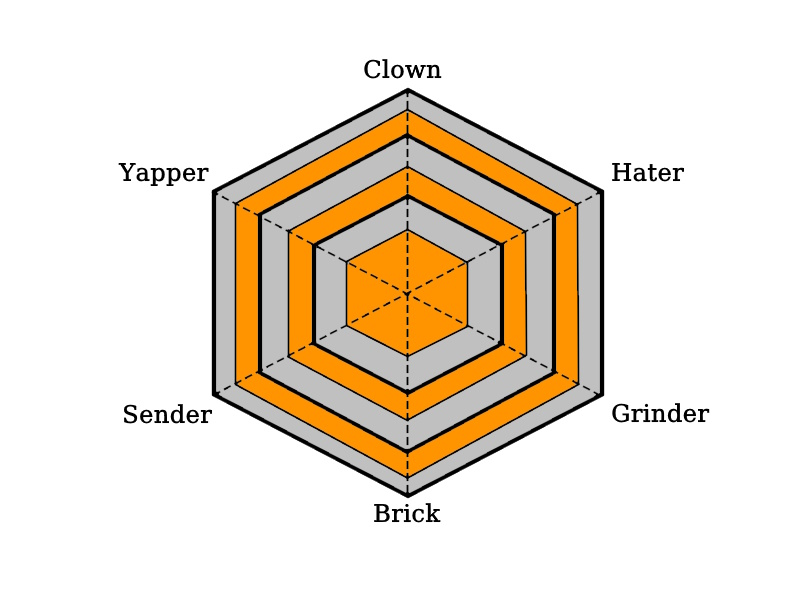
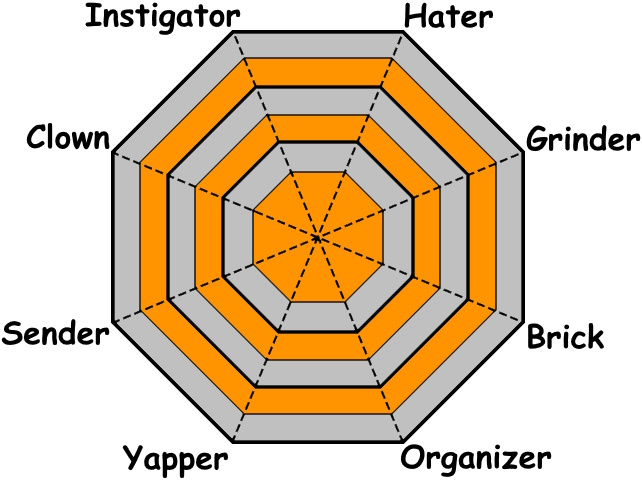
post mortem on sofia's commit - updated figure and calculations for new types

diff --git a/personality_test.py b/personality_test.py
@@ -2,9 +2,6 @@ import numpy as np
 import plotly.graph_objects as go
 from PIL import Image
 
-img_width=800
-img_height=600
-
 # Lambda functions 
 axes_to_polar = lambda points: np.array([np.linalg.norm(points[1]-points[0]), np.atan2(points[1][1] - points[0][1], points[1][0] - points[0][0])])
 get_position = lambda r, polar, points: points[0] + polar[0] * r**2.5 * np.array([np.cos(polar[1]),np.sin(polar[1])])
@@ -16,64 +13,61 @@ def get_base_image() -> go.Figure:
     """ Get the base image figure for the results
     """
     fig = go.Figure()
+    sizex, sizey = source.size
 
     # Add the hexagon plot to the image
     fig.add_layout_image(
         x=0,
-        sizex=img_width,
+        sizex=sizex,
         y=0,
-        sizey=img_height,
+        sizey=sizey,
         xref="x",
         yref="y",
         opacity=1.0,
         layer="below",
         source=source
     )
-    fig.update_xaxes(showgrid=False, range=(0, img_width))
-    fig.update_yaxes(showgrid=False, scaleanchor='x', range=(img_height, 0))
+    fig.update_xaxes(showgrid=False, range=(0, sizex))
+    fig.update_yaxes(showgrid=False, scaleanchor='x', range=(sizey, 0))
 
     return fig
 
 def get_result_plot(results: np.ndarray) -> go.Figure:
     """ Produce the test results
 
-    results: [clown, hater, grinder, brick, sender, yapper]; values from 0.0 to 1.0
+    results: [clown, hater, grinder, brick, sender, yapper, instigator, organizer]; values from 0.0 to 1.0
     """
     # Make sure none of the results are greater than 1.0 or less than 0.0
     results[np.where(results>1.0)[0]] = 1.0
     results[np.where(results<0.0)[0]] = 0.0
 
     # Axes of traits 
-    # ----- [low[x,y],high[x,y]]
-    clown = np.array([[407,230],[407,90]])
-    hater = np.array([[466,262],[601,191]])
-    grinder = np.array([[466,325],[601,395]])
-    brick = np.array([[407,355],[407,494]])
-    sender = np.array([[346,325],[214,395]])
-    yapper = np.array([[346,261],[214,191]])
-
-    # Polar coordinates 
-    clown_r_th = axes_to_polar(clown)
-    brick_r_th = axes_to_polar(brick)
-    hater_r_th = axes_to_polar(hater)
-    grinder_r_th = axes_to_polar(grinder)
-    sender_r_th = axes_to_polar(sender)
-    yapper_r_th = axes_to_polar(yapper)
+    # -------------------- [low[x,y],high[x,y]]
+    clown      = np.array([[253,210],[115,152]])
+    instigator = np.array([[290,171],[233,34]])
+    hater      = np.array([[345,171],[402,34]])
+    grinder    = np.array([[383,210],[520,152]])
+    brick      = np.array([[383,264],[520,321]])
+    organizer  = np.array([[345,302],[402,439]])
+    yapper     = np.array([[290,302],[233,439]])
+    sender     = np.array([[253,264],[115,321]])
 
     fig = get_base_image()
 
     # Get positions of all the results
-    clown_out = get_position(results[0], clown_r_th, clown)
-    hater_out = get_position(results[1], hater_r_th, hater)
-    grinder_out = get_position(results[2], grinder_r_th, grinder)
-    brick_out = get_position(results[3], brick_r_th, brick)
-    sender_out = get_position(results[4], sender_r_th, sender)
-    yapper_out = get_position(results[5], yapper_r_th, yapper)
+    clown_out = get_position(results[0], axes_to_polar(clown), clown)
+    hater_out = get_position(results[1], axes_to_polar(hater), hater)
+    grinder_out = get_position(results[2], axes_to_polar(grinder), grinder)
+    brick_out = get_position(results[3], axes_to_polar(brick), brick)
+    sender_out = get_position(results[4], axes_to_polar(sender), sender)
+    yapper_out = get_position(results[5], axes_to_polar(yapper), yapper)
+    instigator_out = get_position(results[6], axes_to_polar(instigator), instigator)
+    organizer_out = get_position(results[7], axes_to_polar(organizer), organizer)
 
     # plot the results on top of the image
     fig.add_scatter(name="Result",
-                    x=[clown_out[0], hater_out[0], grinder_out[0], brick_out[0], sender_out[0], yapper_out[0]],
-                    y=[clown_out[1], hater_out[1], grinder_out[1], brick_out[1], sender_out[1], yapper_out[1]],
+                    x=[clown_out[0], instigator_out[0], hater_out[0], grinder_out[0], brick_out[0], organizer_out[0], yapper_out[0], sender_out[0]],
+                    y=[clown_out[1], instigator_out[1], hater_out[1], grinder_out[1], brick_out[1], organizer_out[1], yapper_out[1], sender_out[1]],
                     fill="toself",
                     fillcolor="cyan",
                     opacity=0.7)

diff --git a/personality_app.py b/personality_app.py
@@ -130,7 +130,7 @@ def cycle_questions(n1,n2,n3,selection,q_index,test_results:dict,question_ids):
     form_reset = None # reset the form value each time the questions are cycled
     if ctx.triggered_id in ['start_btn', 'reset_btn']:
         np.random.shuffle(question_ids) # randomize question order each time
-        text = f'Q1/{len(questions_json)}: {questions_json[question_ids[0]]['text']}' # we 1 index here >:(
+        text = f'Q1/{len(questions_json)}: {questions_json[question_ids[0]]['text']}' # we 1 index here :)
         debug_text = f'[{questions_json[question_ids[0]]['type']}]'
         score_debug_text = ''
         return (text, 
@@ -176,7 +176,11 @@ def cycle_questions(n1,n2,n3,selection,q_index,test_results:dict,question_ids):
     architype = questions_json[question_ids[q_index]]['type']
 
     # Increment results
-    local_test_results[architype] = local_test_results[architype] + form_conversion[np.where(selection==np.array(form_options))][0] * scale / 18.0
+    if type(architype) == list:
+        for idx, item in enumerate(architype):
+            local_test_results[item] = local_test_results[item] + form_conversion[np.where(selection==np.array(form_options))][0] * scale[idx] / 18.0
+    else:
+        local_test_results[architype] = local_test_results[architype] + form_conversion[np.where(selection==np.array(form_options))][0] * scale / 18.0
     
     q_index += 1
     text = f'Q{q_index+1}/{len(questions_json)}: {questions_json[question_ids[q_index]]['text']}' # and here :)
